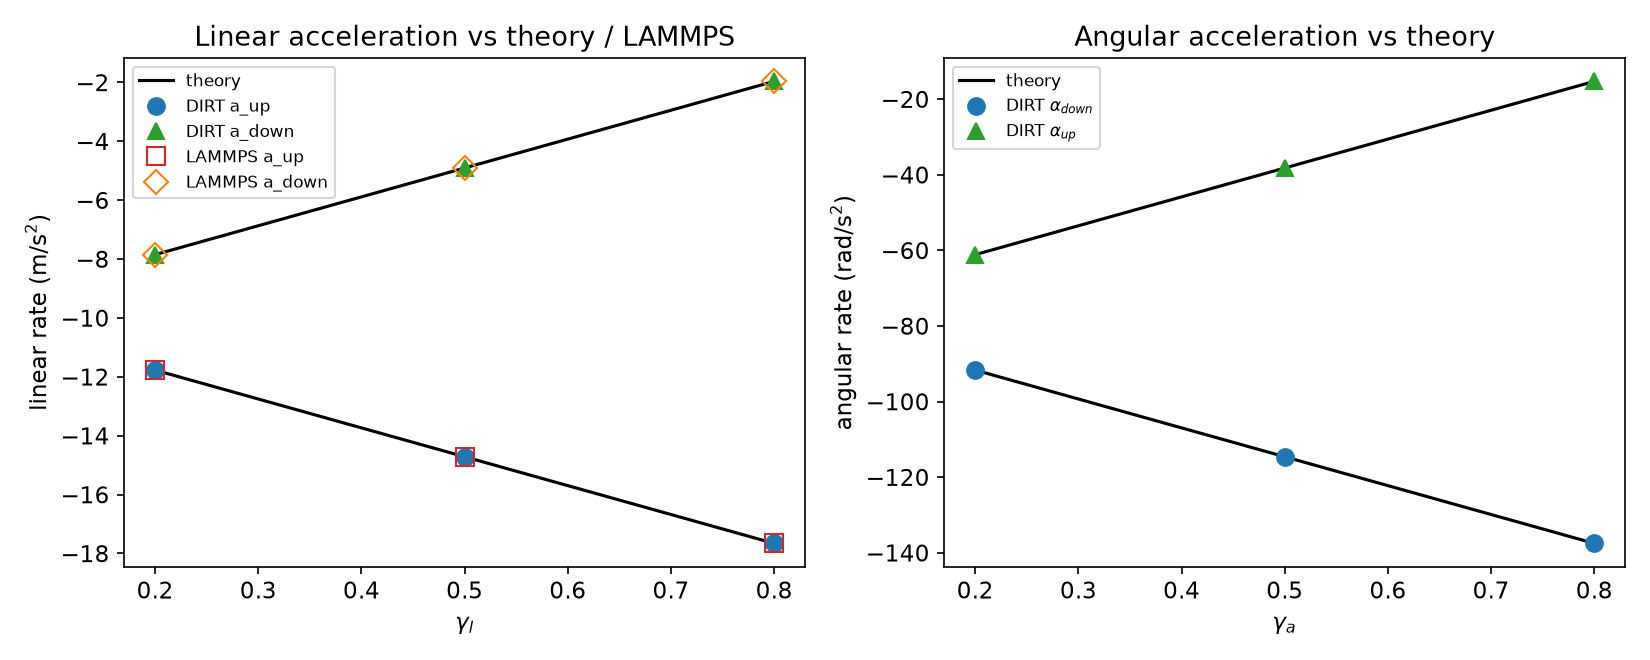
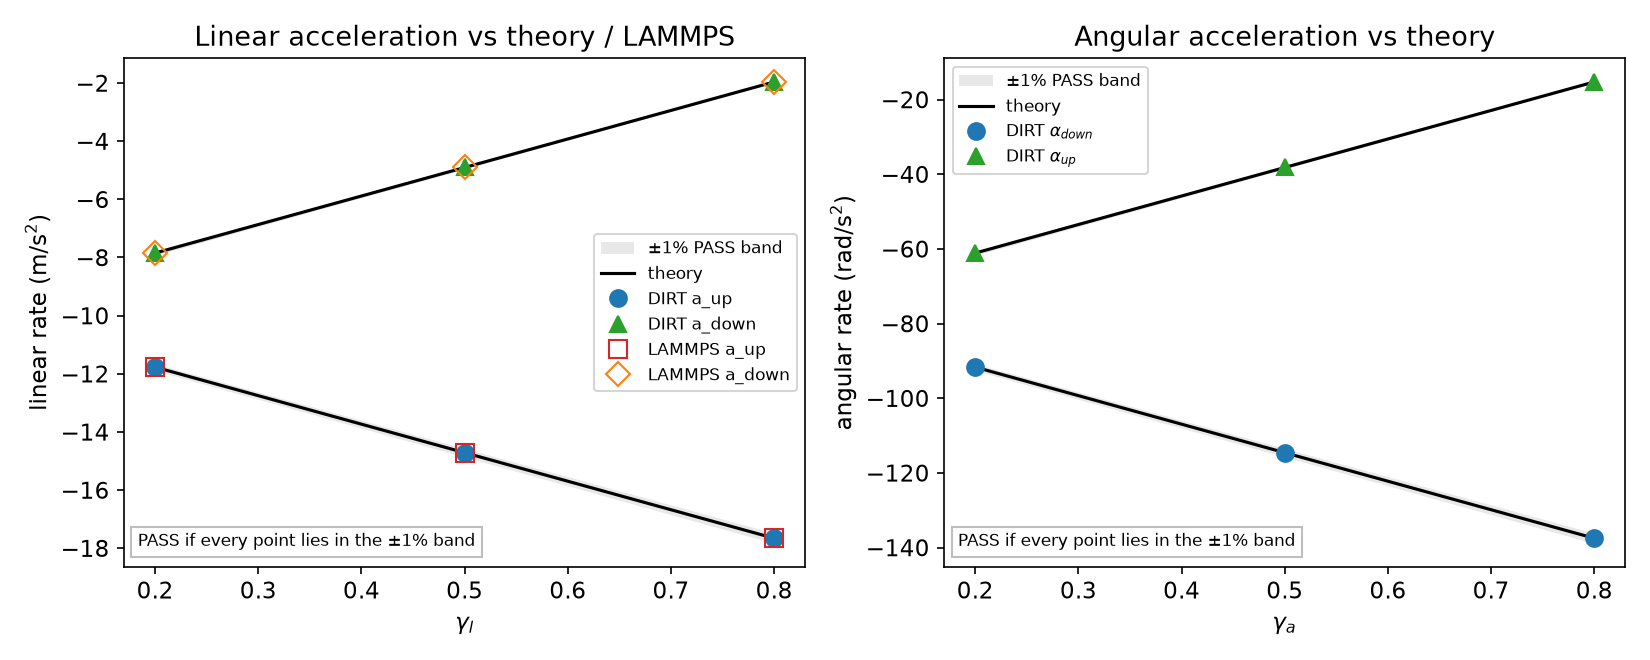
Show Cundall damping pass band in plot

diff --git a/examples/bench_cundall_damping/sweep.py b/examples/bench_cundall_damping/sweep.py
@@ -491,8 +491,17 @@ def plot(dirt, lammps):
     fig, (axa, axb) = plt.subplots(1, 2, figsize=(11.0, 4.4))
     d = sorted(dirt, key=lambda x: x["gamma"])
     gam = [r["gamma"] for r in d]
-    axa.plot(gam, [r["a_up_pred"] for r in d], "k-", label="theory")
-    axa.plot(gam, [r["a_down_pred"] for r in d], "k-")
+    def pass_band(ax, x, y, label=None):
+        lo = [min(v * (1.0 - REL_TOL), v * (1.0 + REL_TOL)) for v in y]
+        hi = [max(v * (1.0 - REL_TOL), v * (1.0 + REL_TOL)) for v in y]
+        ax.fill_between(x, lo, hi, color="0.75", alpha=0.35, linewidth=0, label=label)
+
+    a_up_pred = [r["a_up_pred"] for r in d]
+    a_down_pred = [r["a_down_pred"] for r in d]
+    pass_band(axa, gam, a_up_pred, label=r"$\pm$1% PASS band")
+    pass_band(axa, gam, a_down_pred)
+    axa.plot(gam, a_up_pred, "k-", label="theory")
+    axa.plot(gam, a_down_pred, "k-")
     axa.plot(gam, [r["a_up"] for r in d], "o", ms=8, color="tab:blue", label="DIRT a_up")
     axa.plot(gam, [r["a_down"] for r in d], "^", ms=8, color="tab:green", label="DIRT a_down")
     if lammps:
@@ -503,14 +512,24 @@ def plot(dirt, lammps):
                  mfc="none", color="tab:orange", label="LAMMPS a_down")
     axa.set_xlabel(r"$\gamma_l$"); axa.set_ylabel(r"linear rate (m/s$^2$)")
     axa.set_title("Linear acceleration vs theory / LAMMPS")
+    axa.text(0.02, 0.04, r"PASS if every point lies in the $\pm$1% band",
+             transform=axa.transAxes, fontsize=8,
+             bbox={"facecolor": "white", "edgecolor": "0.7", "alpha": 0.85, "pad": 3})
     axa.legend(fontsize=8)
 
-    axb.plot(gam, [r["alpha_down_pred"] for r in d], "k-", label="theory")
-    axb.plot(gam, [r["alpha_up_pred"] for r in d], "k-")
+    alpha_down_pred = [r["alpha_down_pred"] for r in d]
+    alpha_up_pred = [r["alpha_up_pred"] for r in d]
+    pass_band(axb, gam, alpha_down_pred, label=r"$\pm$1% PASS band")
+    pass_band(axb, gam, alpha_up_pred)
+    axb.plot(gam, alpha_down_pred, "k-", label="theory")
+    axb.plot(gam, alpha_up_pred, "k-")
     axb.plot(gam, [r["alpha_down"] for r in d], "o", ms=8, color="tab:blue", label=r"DIRT $\alpha_{down}$")
     axb.plot(gam, [r["alpha_up"] for r in d], "^", ms=8, color="tab:green", label=r"DIRT $\alpha_{up}$")
     axb.set_xlabel(r"$\gamma_a$"); axb.set_ylabel(r"angular rate (rad/s$^2$)")
     axb.set_title("Angular acceleration vs theory")
+    axb.text(0.02, 0.04, r"PASS if every point lies in the $\pm$1% band",
+             transform=axb.transAxes, fontsize=8,
+             bbox={"facecolor": "white", "edgecolor": "0.7", "alpha": 0.85, "pad": 3})
     axb.legend(fontsize=8)
     fig.tight_layout()
     fig.savefig(os.path.join(PLOT_DIR, "cundall_rates.png"))

diff --git a/examples/bench_cundall_damping/README.md b/examples/bench_cundall_damping/README.md
@@ -66,8 +66,9 @@ transition step). **PASS** ⇔ all four rates match for all γ.
 ![Cundall fitted rates](plots/cundall_rates.png)
 
 *Fitted linear and angular rates vs the exact Cundall analytical rates across γ.
-DIRT matches all four rates within the 1 % gate; the linear branch also overlays
-the LAMMPS `fix damping/cundall` cross-check. Latest run: PASS.*
+The shaded band is the ±1 % PASS criterion used by the sweep; DIRT matches all
+four rates inside that gate, and the linear branch also overlays the LAMMPS
+`fix damping/cundall` cross-check. Latest run: PASS.*
 
 ![Cundall damping traces](plots/cundall_traces.png)
 

diff --git a/examples/VALIDATION.md b/examples/VALIDATION.md
@@ -76,8 +76,9 @@ also cross-checked against LAMMPS `fix damping/cundall`.
 
 ![Cundall fitted rates](bench_cundall_damping/plots/cundall_rates.png)
 
-*Fitted DIRT linear/angular rates vs exact Cundall analytical rates, with LAMMPS
-overlaid for the linear branch. Latest run: PASS, all rates within the 1 % gate.*
+*Fitted DIRT linear/angular rates vs exact Cundall analytical rates; the shaded
+band is the ±1 % PASS criterion used by the sweep, with LAMMPS overlaid for the
+linear branch. Latest run: PASS, all rates within the 1 % gate.*
 
 ![Cundall damping traces](bench_cundall_damping/plots/cundall_traces.png)
 
